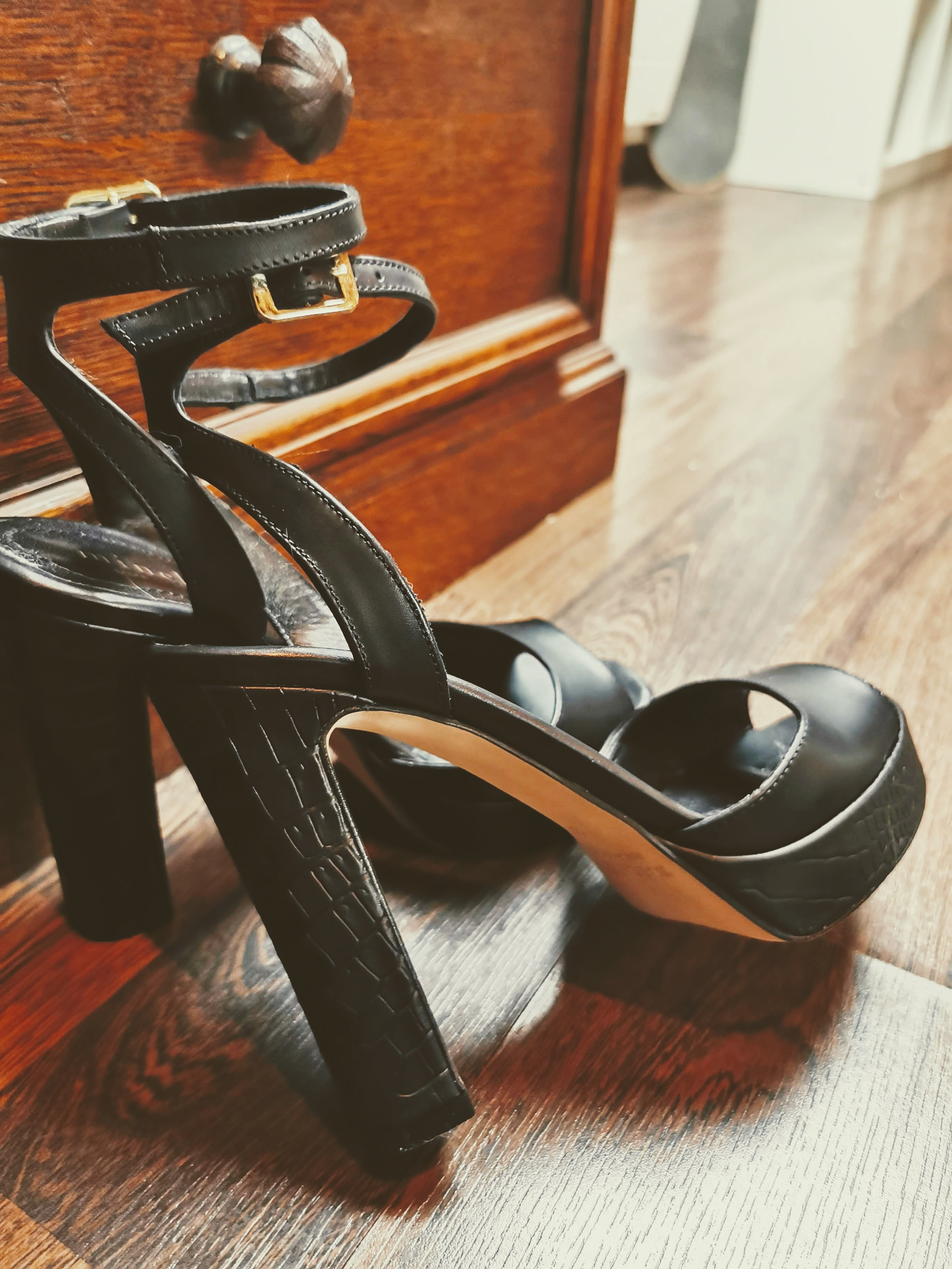
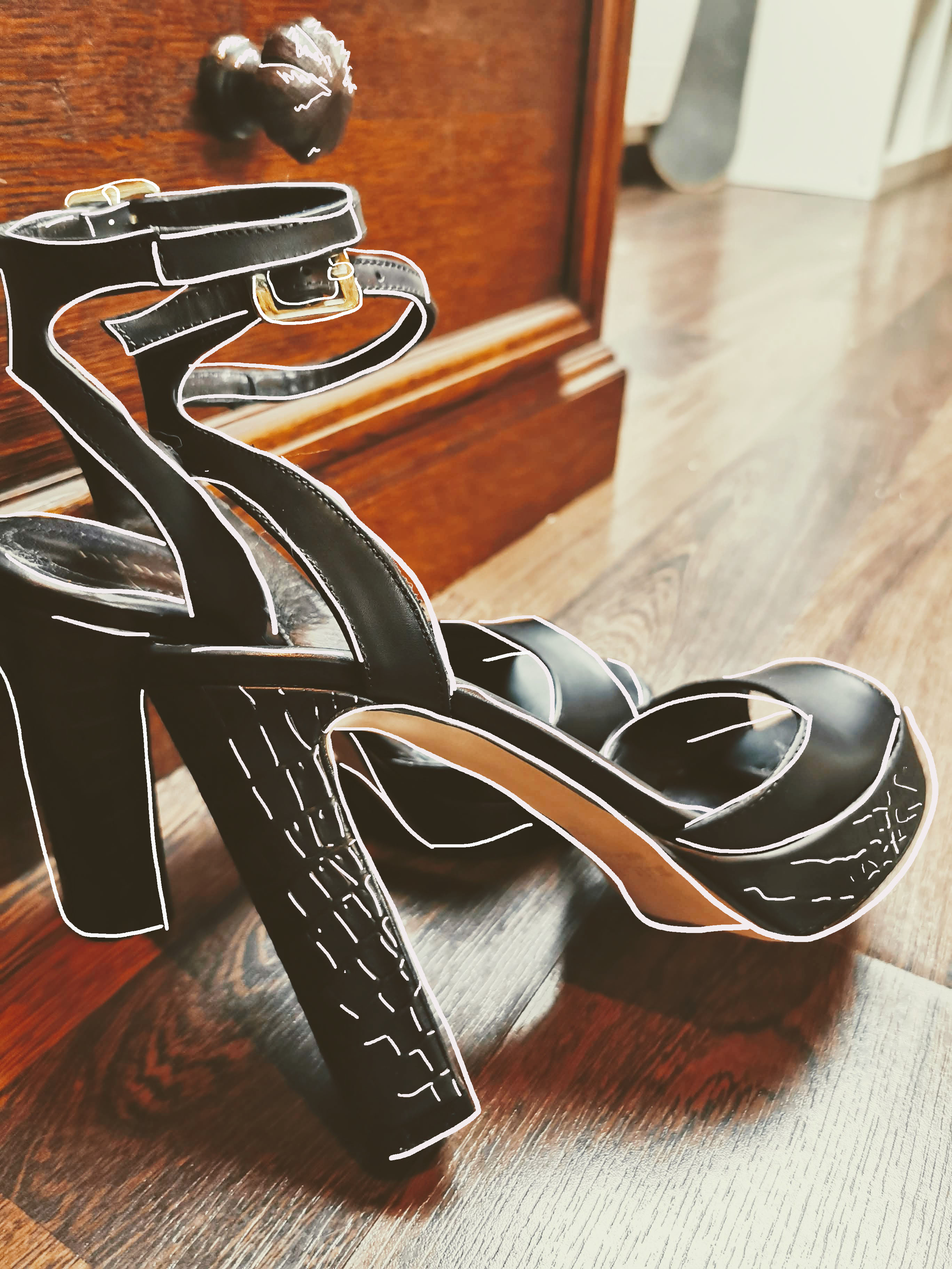
added illustration picture and modified style framer

diff --git a/data/shoes/plateforme.js b/data/shoes/plateforme.js
@@ -3,8 +3,8 @@ import Framer from "../../components/framer";
 
 import plateformePreview from "../../public/images/shoes/plateforme1.jpg?lqip";
 import plateforme from "../../public/images/shoes/plateforme1.jpg?resize&sizes[]=300&sizes[]=600&sizes[]=1000";
-import plateforme1Preview from "../../public/images/shoes/plateforme.jpg?lqip";
-import plateforme1 from "../../public/images/shoes/plateforme.jpg?resize&sizes[]=300&sizes[]=600&sizes[]=1000";
+import plateforme1Preview from "../../public/images/shoes/plateforme.png?lqip";
+import plateforme1 from "../../public/images/shoes/plateforme.png?resize&sizes[]=300&sizes[]=600&sizes[]=1000";
 
 export default {
   category: "SHOES",
@@ -13,6 +13,11 @@ export default {
   picture: { preview: plateformePreview, picture: plateforme },
   content: (
     <>
+      <Framer>
+        <Picture
+          picture={{ preview: plateformePreview, picture: plateforme }}
+        />
+      </Framer>
       <Framer>
         <p>
           La plateform shoes, vogue des années 90', refait son apparition 20 et
@@ -23,7 +28,6 @@ export default {
           lumière. Encore une fois, tout se joue sur ce que la luminosité amène
           et créé sur nous.
         </p>
-        <p></p>
       </Framer>
       <Framer>
         <Picture

diff --git a/data/shoes/mangoBottega.js b/data/shoes/mangoBottega.js
@@ -1,8 +1,8 @@
 import Picture from "../../components/picture";
 import Framer from "../../components/framer";
 
-import mangoPreview from "../../public/images/shoes/mangoBottega.jpg?lqip";
-import mango from "../../public/images/shoes/mangoBottega.jpg?resize&sizes[]=300&sizes[]=600&sizes[]=1000";
+import mangoPreview from "../../public/images/shoes/mangoBottega3.png?lqip";
+import mango from "../../public/images/shoes/mangoBottega3.png?resize&sizes[]=300&sizes[]=600&sizes[]=1000";
 import mango1Preview from "../../public/images/shoes/mangoBottega1.jpg?lqip";
 import mango1 from "../../public/images/shoes/mangoBottega1.jpg?resize&sizes[]=300&sizes[]=600&sizes[]=1000";
 import mango2Preview from "../../public/images/shoes/mangoBottega.jpg?lqip";
@@ -18,7 +18,7 @@ export default {
   category: "SHOES",
   title: "INSPIRATION",
   date: "17.05.2020",
-  picture: { preview: mango5Preview, picture: mango5 },
+  picture: { preview: mangoPreview, picture: mango },
   content: (
     <>
       <Framer>

diff --git a/data/style/acceptation.js b/data/style/acceptation.js
@@ -1,9 +1,9 @@
 import Picture from "../../components/picture";
 import Framer from "../../components/framer";
-import kimonoPreview from "../../public/images/style/kimono1bis.jpg?lqip";
-import kimono from "../../public/images/style/kimono1bis.jpg?resize&sizes[]=300&sizes[]=600&sizes[]=1000";
-import kimono1 from "../../public/images/style/kimono.jpg?resize&sizes[]=300&sizes[]=600&sizes[]=1000";
-import kimono2 from "../../public/images/style/kimono2bis.jpg?resize&sizes[]=300&sizes[]=600&sizes[]=1000";
+import kimonoPreview from "../../public/images/style/kimono1bis.png?lqip";
+import kimono from "../../public/images/style/kimono1bis.png?resize&sizes[]=300&sizes[]=600&sizes[]=1000";
+import kimono1 from "../../public/images/style/kimono.png?resize&sizes[]=300&sizes[]=600&sizes[]=1000";
+import kimono2 from "../../public/images/style/kimono2.png?resize&sizes[]=300&sizes[]=600&sizes[]=1000";
 export default {
   category: "STYLE",
   title: "ACCEPTATION",

diff --git a/data/style/romantisme.js b/data/style/romantisme.js
@@ -4,14 +4,8 @@ import Framer from "../../components/framer";
 import romantisme from "../../public/images/style/romantisme.jpg";
 import romantismePreview from "../../public/images/style/romantisme.jpg?lqip";
 
-import romantisme2 from "../../public/images/style/romantisme2.jpg";
-import romantisme2Preview from "../../public/images/style/romantisme2.jpg?lqip";
-
 import romantisme3 from "../../public/images/style/romantisme3.jpg";
 import romantisme3Preview from "../../public/images/style/romantisme3.jpg?lqip";
-
-import romantisme4 from "../../public/images/style/romantisme4.jpg";
-import romantisme4Preview from "../../public/images/style/romantisme4.jpg?lqip";
 
 import necklace from "../../public/images/style/necklace.jpg";
 

diff --git a/components/framer.js b/components/framer.js
@@ -20,8 +20,8 @@ const Framer = ({ children }) => {
       initial="hidden"
       transition={{ duration: 0.5 }}
       variants={{
-        visible: { opacity: 1, x: 0 },
-        hidden: { opacity: 0, x: -100 },
+        visible: { opacity: 1, y: 0 },
+        hidden: { opacity: 0.8, y: -200 },
       }}
     >
       {children}

diff --git a/data/articleStyle.js b/data/articleStyle.js
@@ -1,6 +1,5 @@
 import acceptation from "./style/acceptation";
 import acid from "./style/acid";
-import ombre from "./style/ombre";
 import vesteAcid from "./style/vesteAcid";
 import romantisme from "./style/romantisme";
 import rustique from "./style/rustique";

diff --git a/components/articleBaseTitle.js b/components/articleBaseTitle.js
@@ -119,7 +119,7 @@ const ArticleBaseTitle = ({ title, date }) => {
               margin-left: 3rem;
             }
             h1 {
-              font-size: 4rem;
+              font-size: 3rem;
             }
           }
         `}

diff --git a/components/articleBase.js b/components/articleBase.js
@@ -1,5 +1,6 @@
 import React from "react";
 
+import { AnimateSharedLayout, AnimatePresence } from "framer-motion";
 import Picture from "./picture";
 const ArticleBase = ({ children, title, className, id }) => (
   <>
